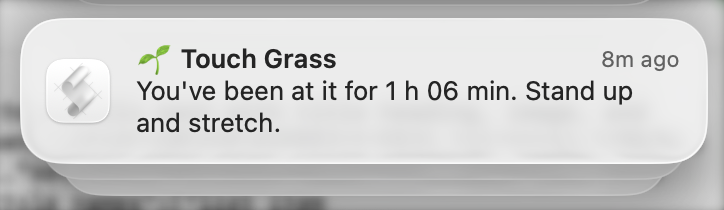
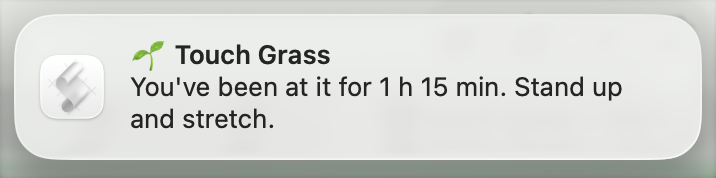
Update notification screenshot

diff --git a/docs/index.html b/docs/index.html
@@ -121,7 +121,7 @@
 
   .shot { margin: 40px auto 0; text-align: center; }
   .shot img {
-    max-width: 362px;
+    max-width: 358px;
     width: 100%;
     height: auto;
     border-radius: 12px;
@@ -219,7 +219,7 @@
       </div>
     </div>
     <figure class="shot">
-      <img src="notification.png" width="362" height="105" alt="macOS notification from Touch Grass: You've been at it for 1 h 06 min. Stand up and stretch.">
+      <img src="notification.png" width="358" height="89" alt="macOS notification from Touch Grass: You've been at it for 1 h 15 min. Stand up and stretch.">
       <figcaption>On MacOS, get some tough love even when the terminal is buried.</figcaption>
     </figure>
   </div>
